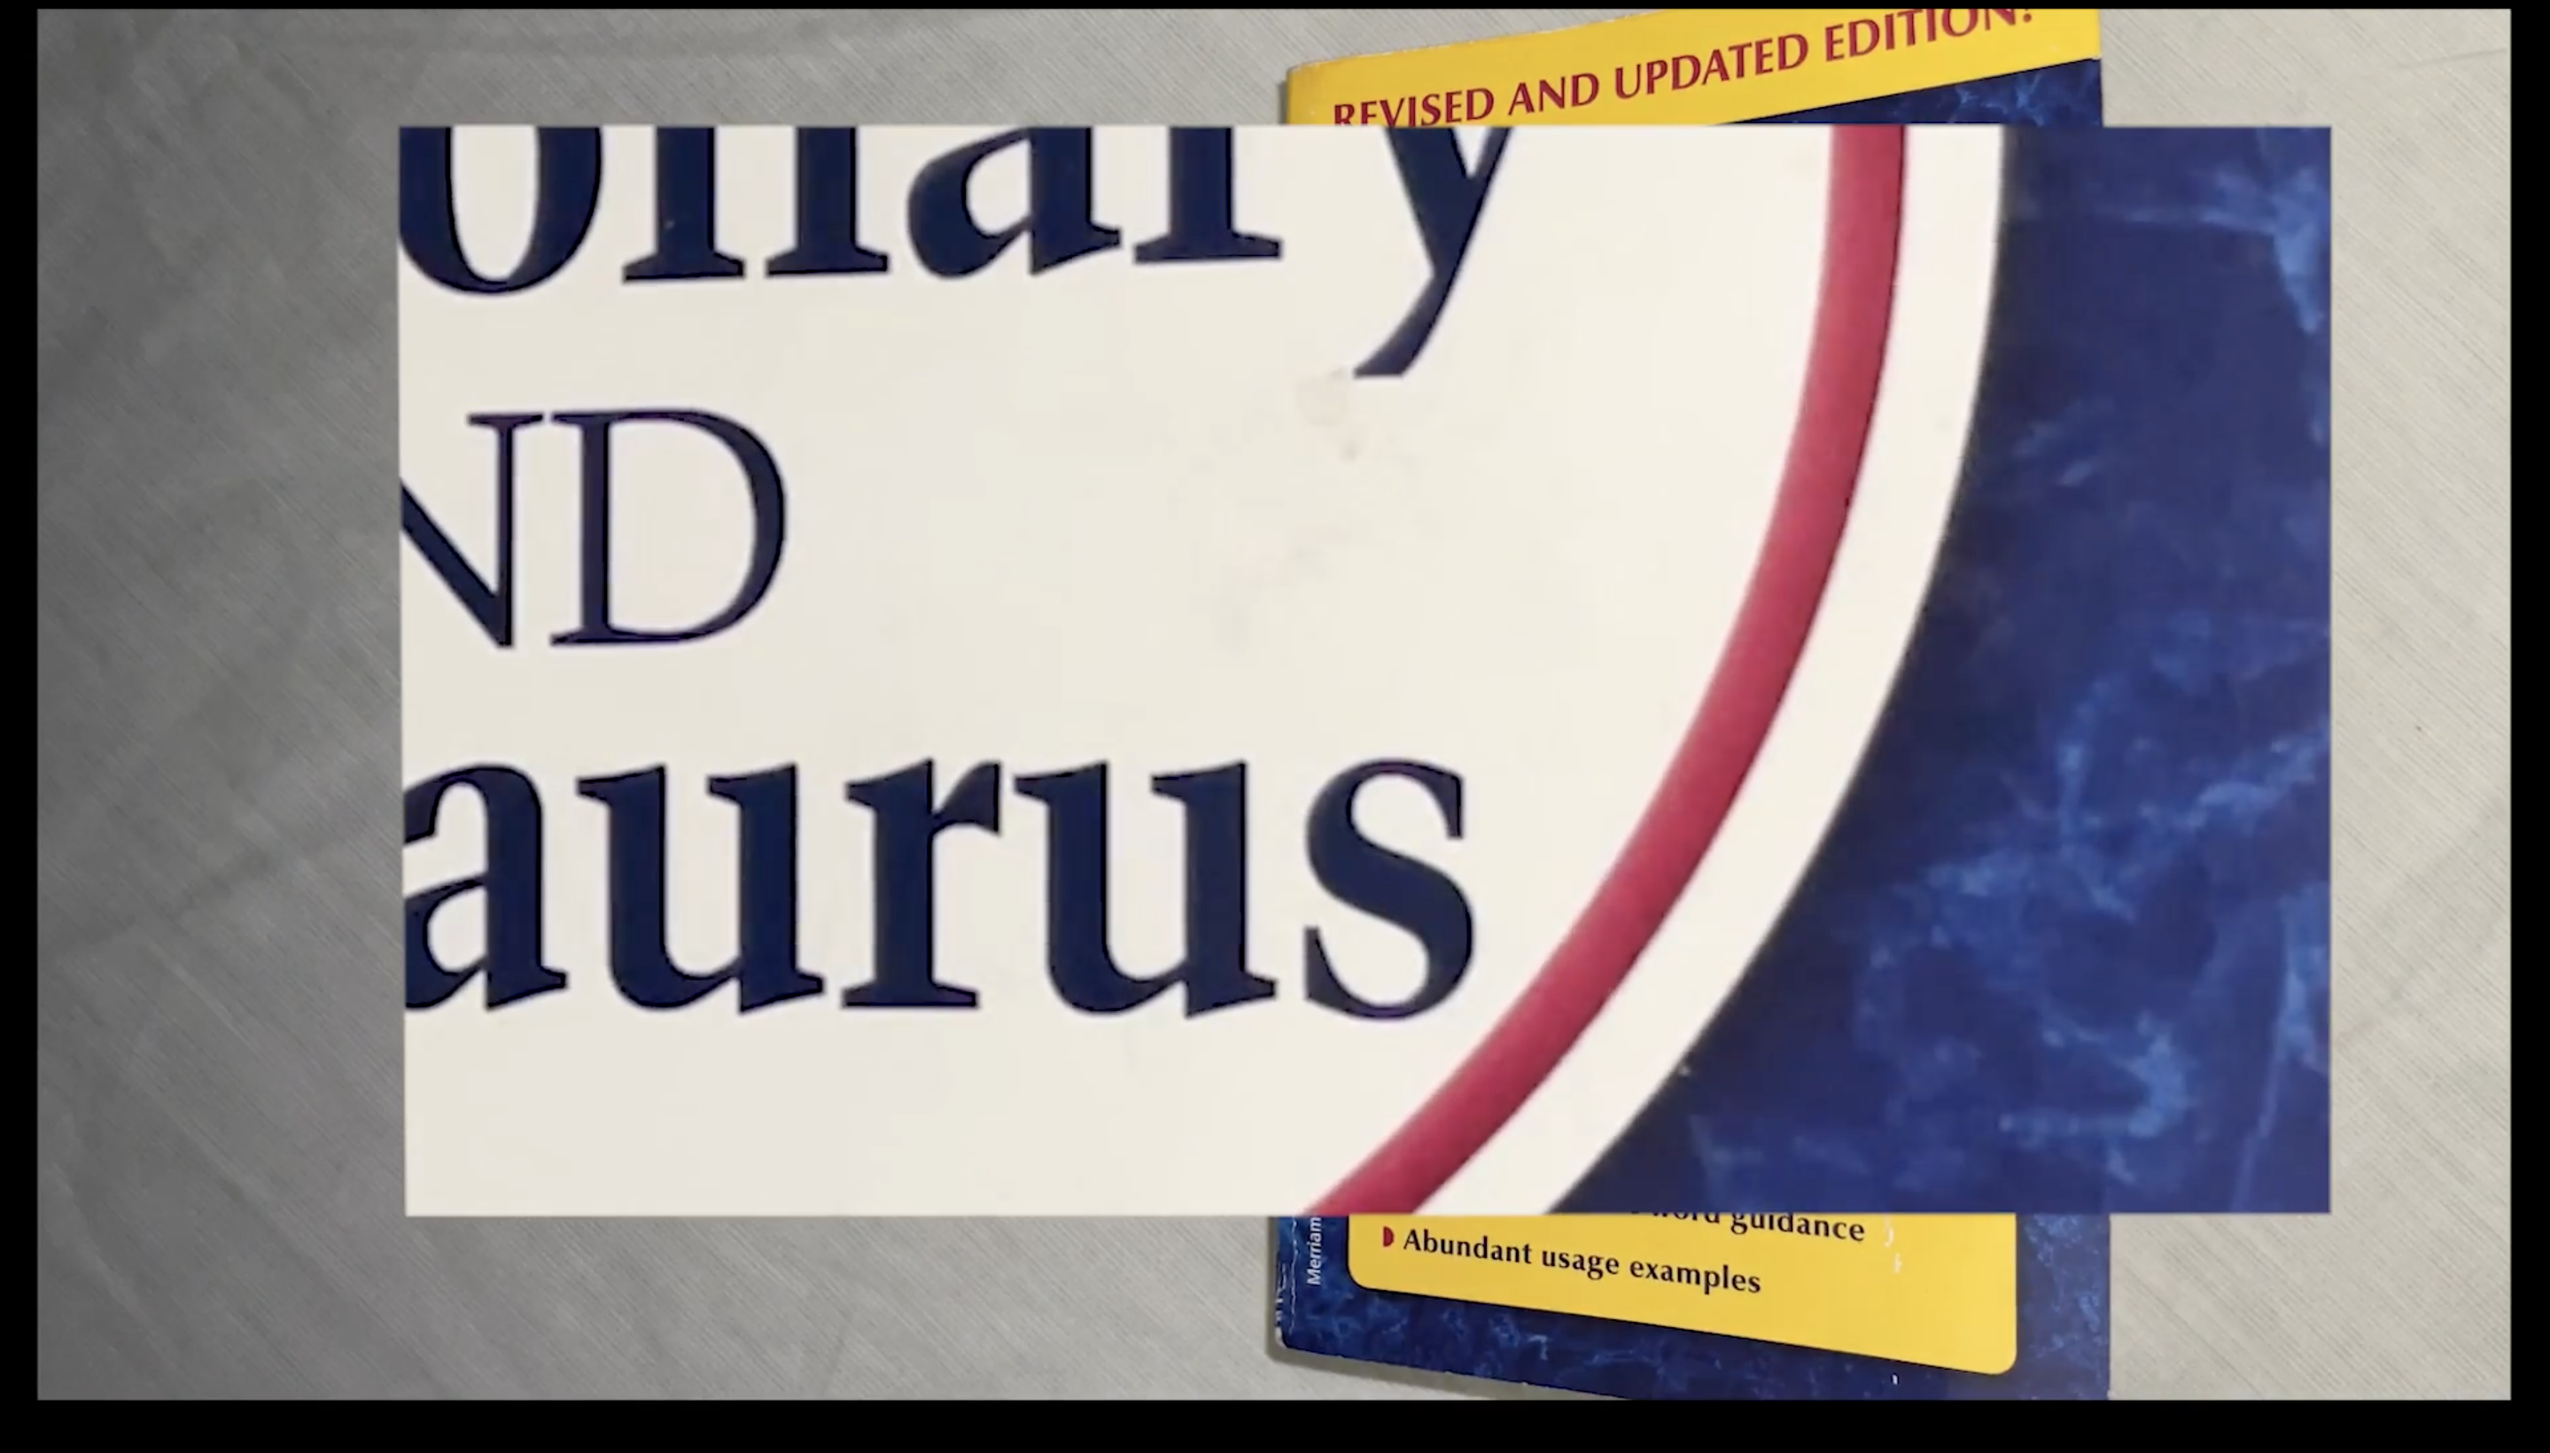
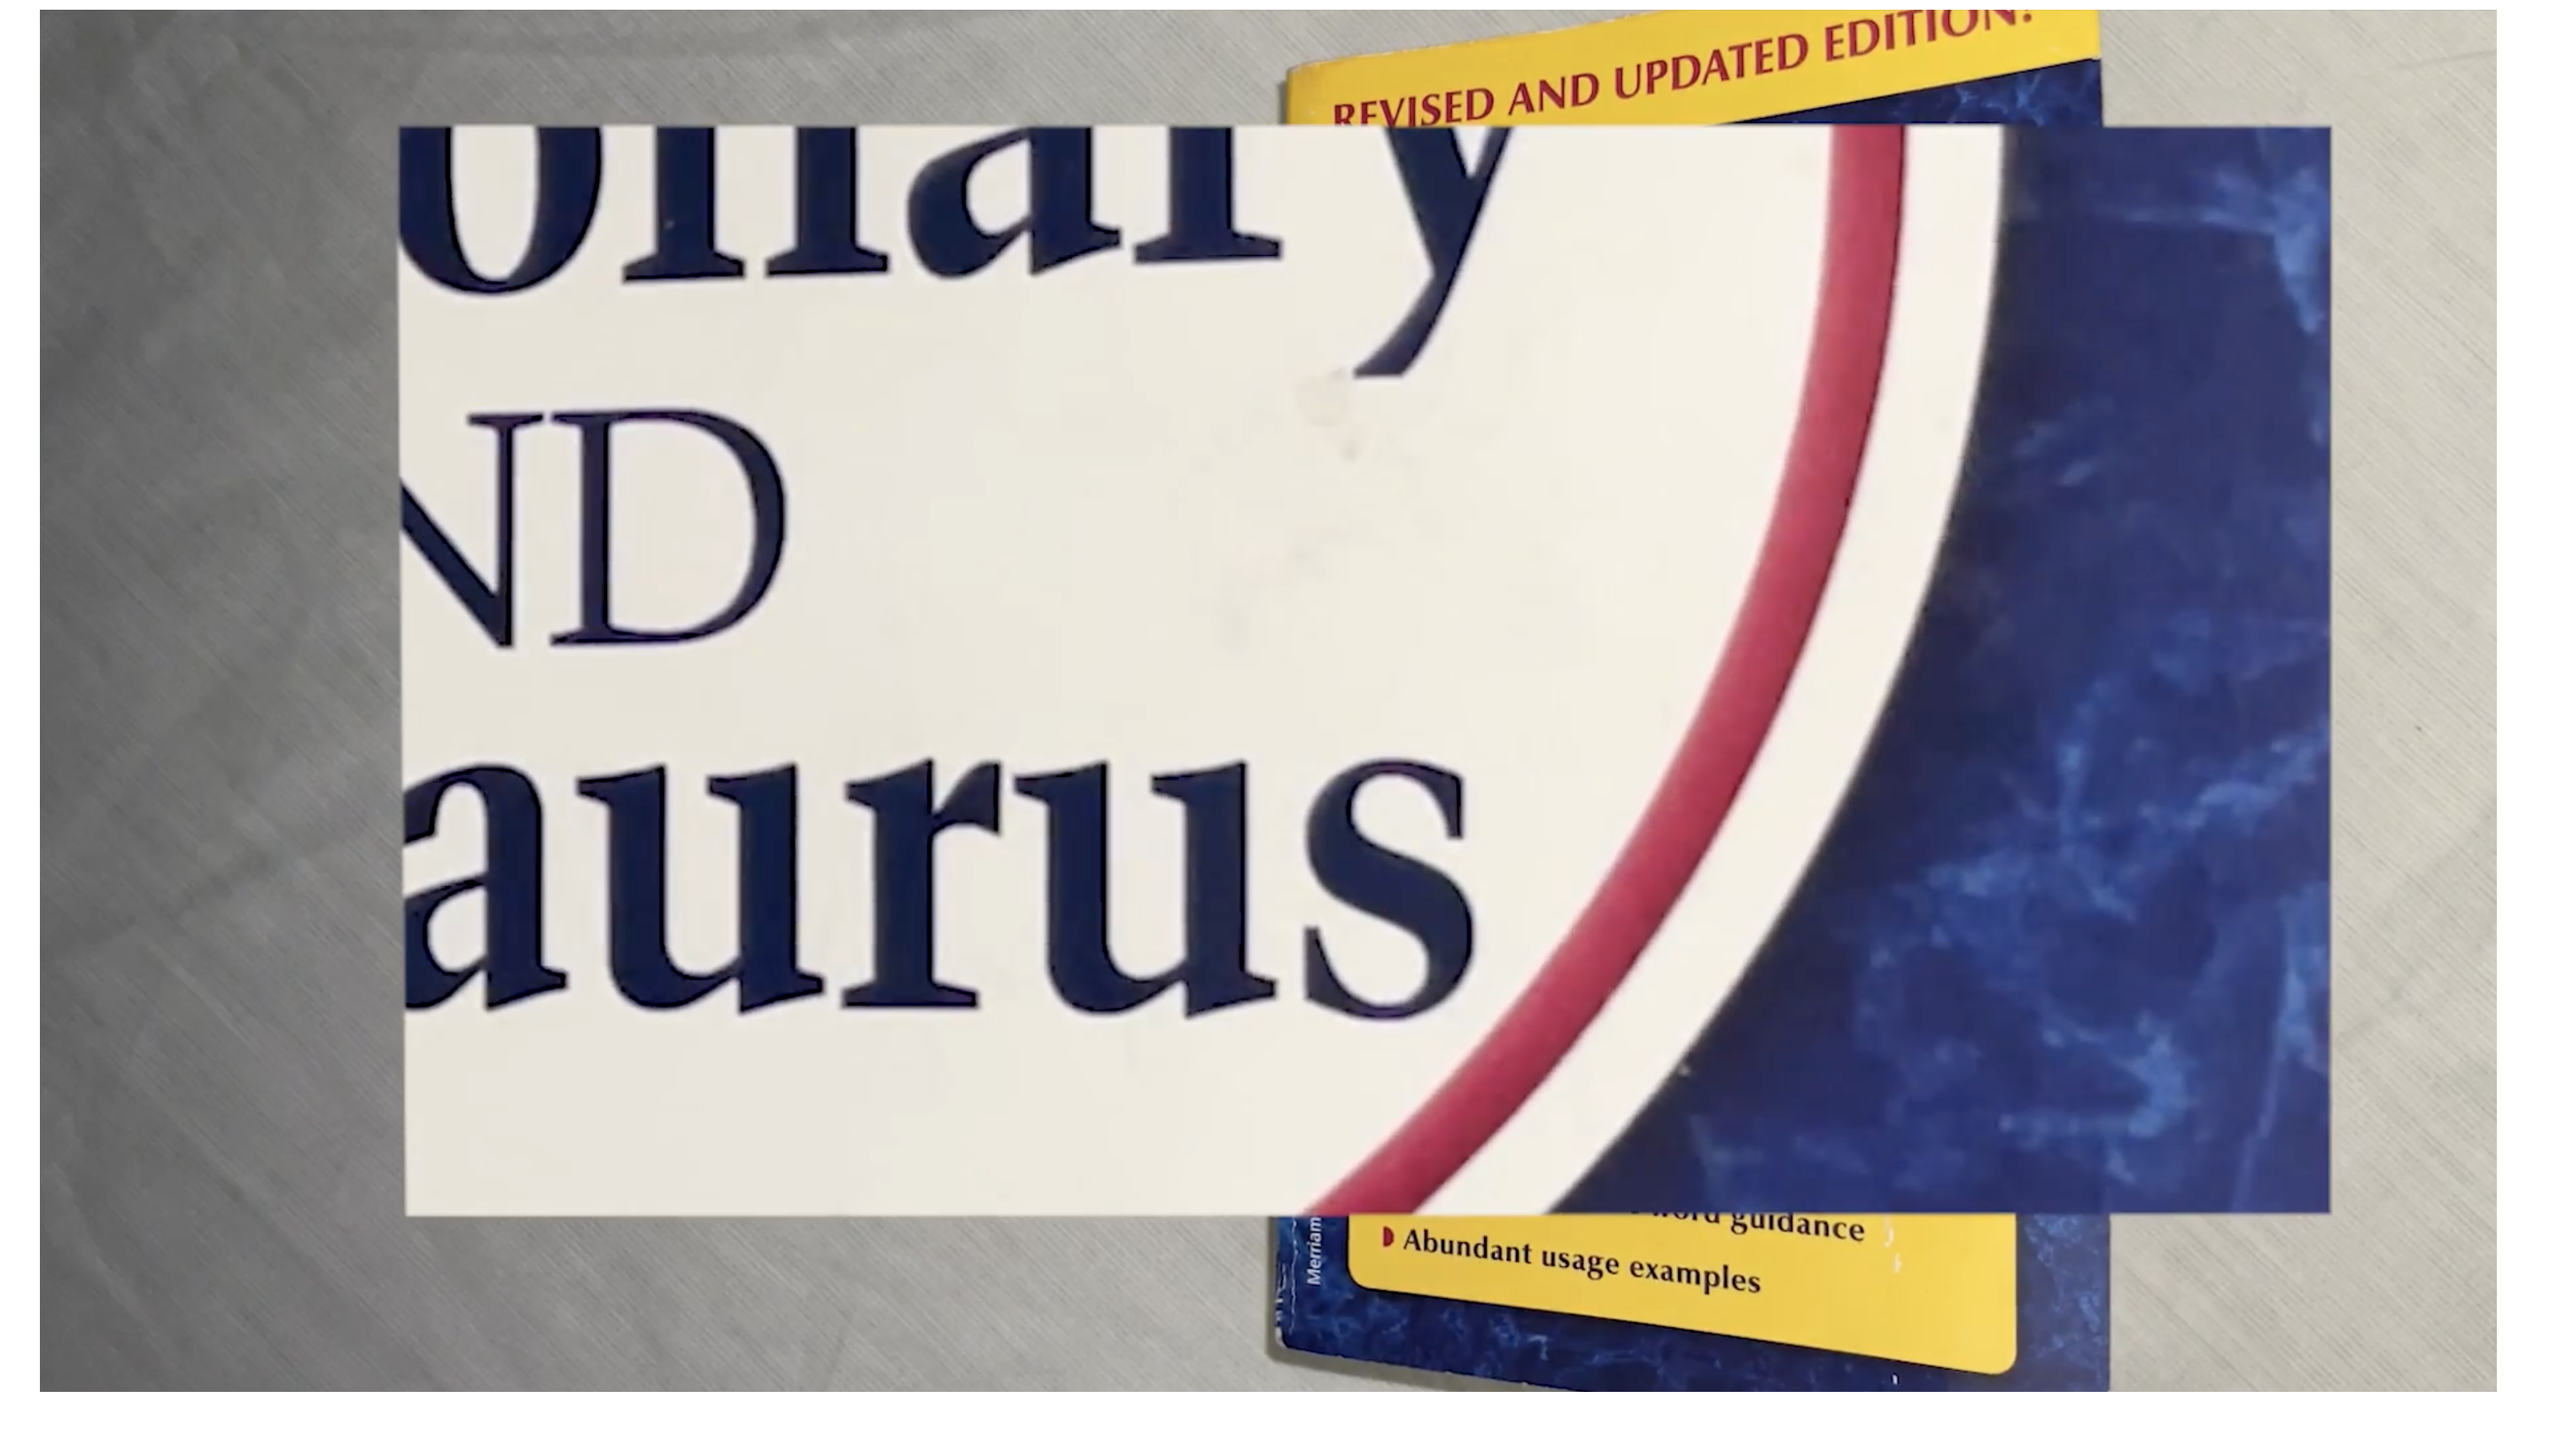
fix img

Changed region(s): [[0.0, 0.0, 1.0, 1.0]]

diff --git a/src/components/Preview.jsx b/src/components/Preview.jsx
@@ -36,7 +36,7 @@ const navigate = useNavigate();
     { id: 1, title: '"23"', description: 'Description of Project 1', imgURL:'./thumbnails/23.jpeg', path:'project-1' },
     { id: 2, title: 'The Waiting Room', description: 'Description of Project 2', imgURL:'./thumbnails/3.jpeg', path:'project-2' },
     { id: 3, title: '3D Renders', description: 'Description of Project 3', imgURL:'./thumbnails/Cola3.jpeg', path:'project-3'  },
-    { id: 4, title: 'Erasure', description: 'Description of Project 4', imgURL:'./thumbnails/4.png', path:'project-4' },
+    { id: 4, title: 'Erasure', description: 'Description of Project 4', imgURL:'./thumbnails/4.jpeg', path:'project-4' },
     { id: 5, title: 'Siphonophrae', description: 'Description of Project 5', imgURL:'./thumbnails/c.png',path:'project-5' },
     { id: 6, title: 'Sound Wave', description: 'Description of Project 6', imgURL:'./thumbnails/hand.jpeg',path:'project-6'},
     { id: 7, title: 'MetaEternity', description: 'Description of Project 7', imgURL:'./thumbnails/1.JPG', path:'project-7'},
